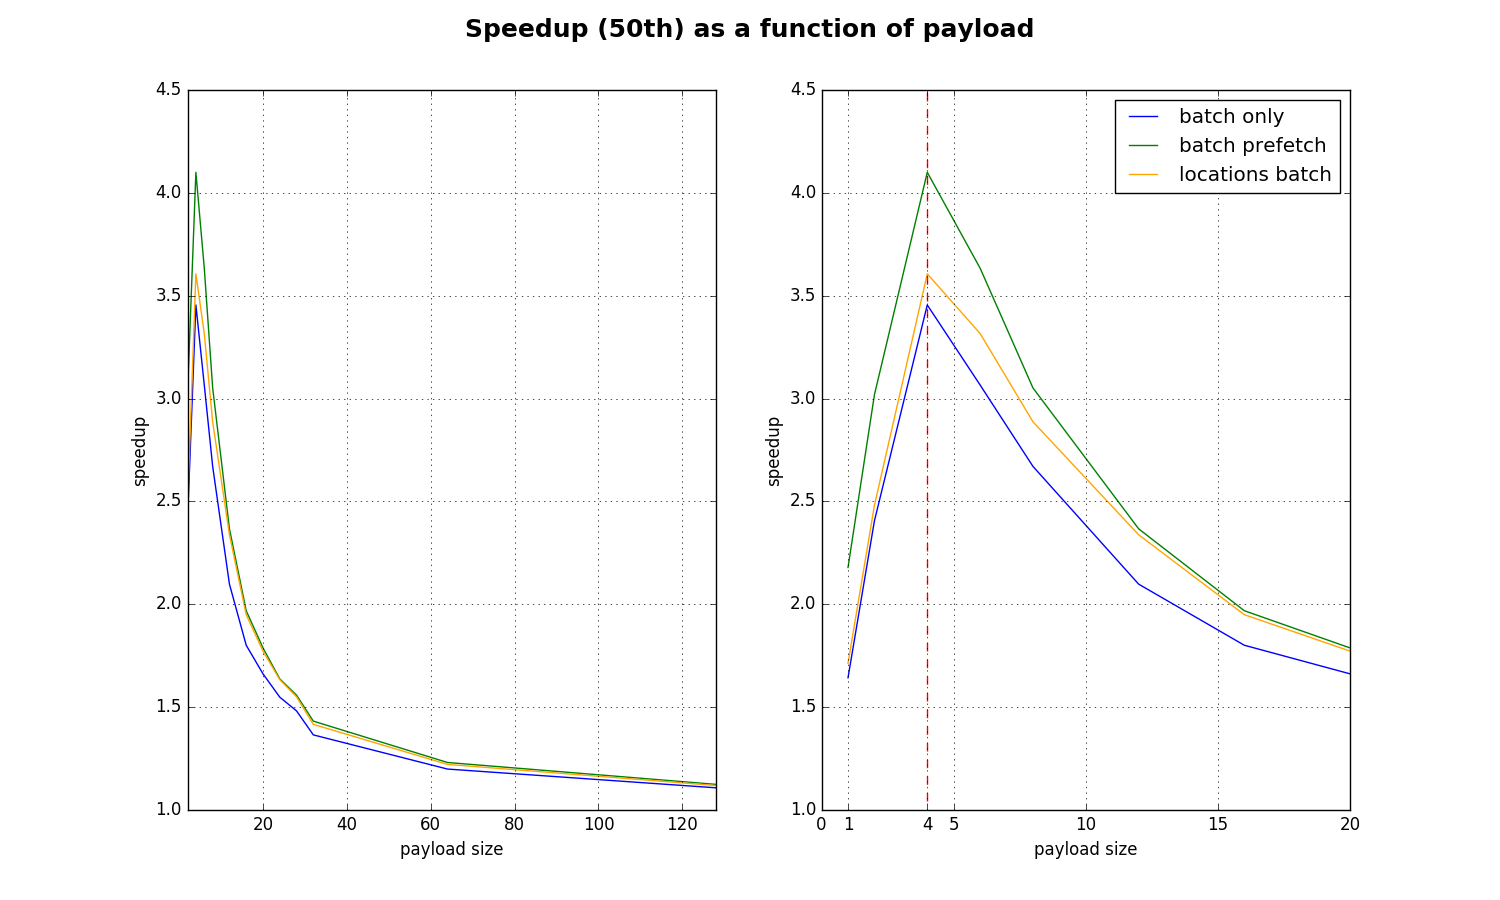
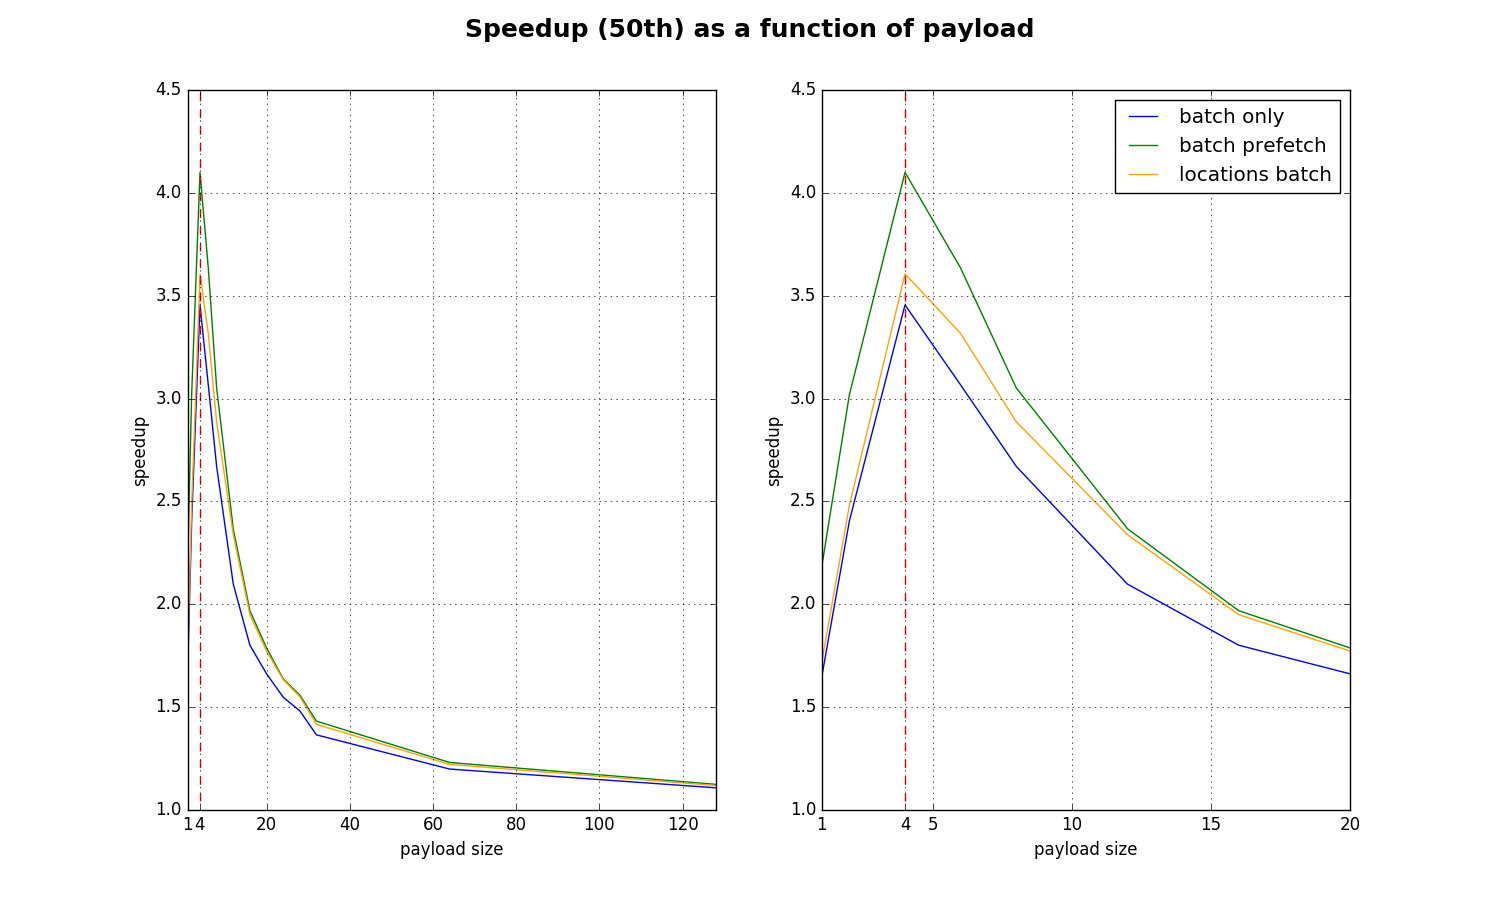
More updates to the plots

diff --git a/analyze-results.py b/analyze-results.py
@@ -114,6 +114,8 @@ def plot_speedups_for_payloads():
     ax.grid(True)
     ax.set_xlim(2,128)
     ax.set_ylim(1,)
+    ax.plot([4,4],[0,4.5], 'r--')
+    ax.set_xticks([1,4,20,40,60,80,100,120])
     ax.set_xlabel("payload size")
     ax.set_ylabel("speedup")
     ax = axs[1]
@@ -124,7 +126,7 @@ def plot_speedups_for_payloads():
     ax.set_xlim(2,20)
     ax.set_ylim(1,)
     ax.legend()
-    ax.set_xticks([0,1,4,5,10,15,20])
+    ax.set_xticks([1,4,5,10,15,20])
     ax.set_xlabel("payload size")
     ax.set_ylabel("speedup")
     fig.suptitle("Speedup (50th) as a function of payload", fontsize=18, weight='bold')
@@ -168,7 +170,7 @@ def plot_speedups_for_p4():
     print x[best_i], y[best_i]
     ylim = axs[0].get_ylim()[1]
     axs[0].add_patch(Rectangle((8,0),12,ylim,facecolor='y', alpha=0.05, hatch='/'))
-    axs[0].set_xticks([5,8,12,15,20,25,30,40,50,60,70,80])
+    axs[0].set_xticks([2,5,8,12,15,20,25,30,40,50,60,70,80])
     axs[0].plot([2,80], [24.719,24.719], 'r--', alpha=0.4)
     axs[0].plot([8,8], [0,ylim], 'r--', alpha=0.6)
     axs[0].plot([20,20], [0,ylim], 'r--', alpha=0.4)
@@ -179,8 +181,8 @@ def plot_speedups_for_p4():
     axs[1].plot([20,20], [0,ylim], 'r--', alpha=0.4)
     axs[1].plot([12,12], [0,ylim], 'r--', alpha=0.4)
     axs[1].plot([12,12], [22,27], 'r', alpha=1)
-    axs[1].set_xticks([5,8,10,12,15,20,25,30])
-    axs[1].set_yticks([20,24.719,30,35,40,60,80,100])
+    axs[1].set_xticks([2,5,8,10,12,15,20,25,30])
+    axs[1].set_yticks([0,20,24.719,30,35,40,60,80,100])
     annotate('4.1X', xy=(12,24.719),xytext=(17,15), fontsize=16, weight='bold',
              arrowprops=dict(facecolor='black', shrink=0.05, width=1))
     axs[1].legend()
